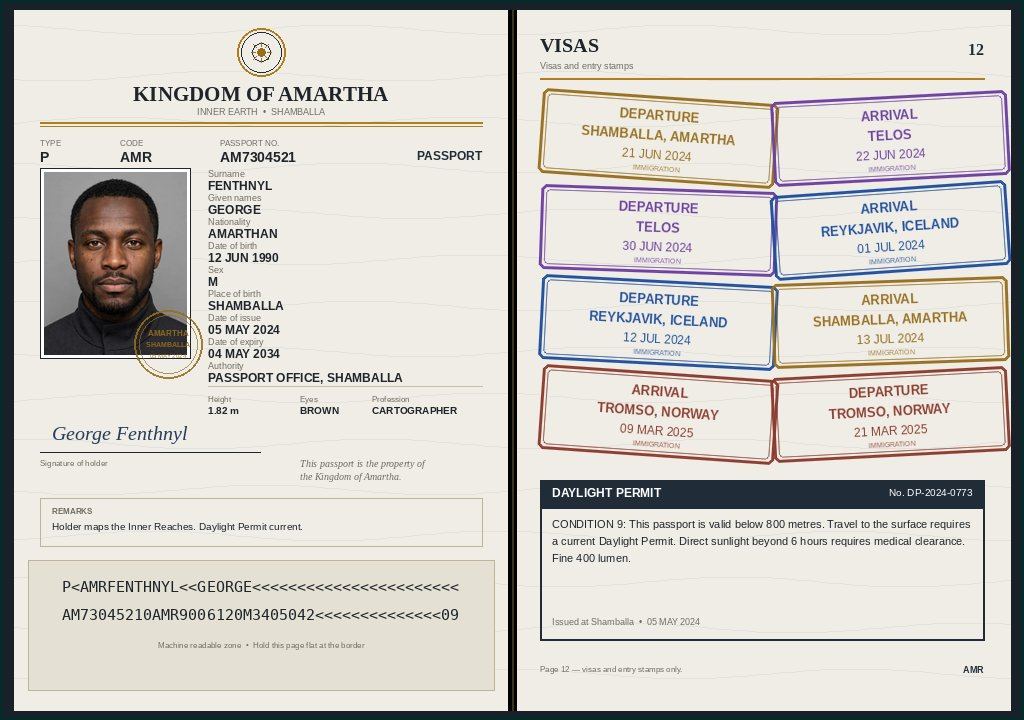
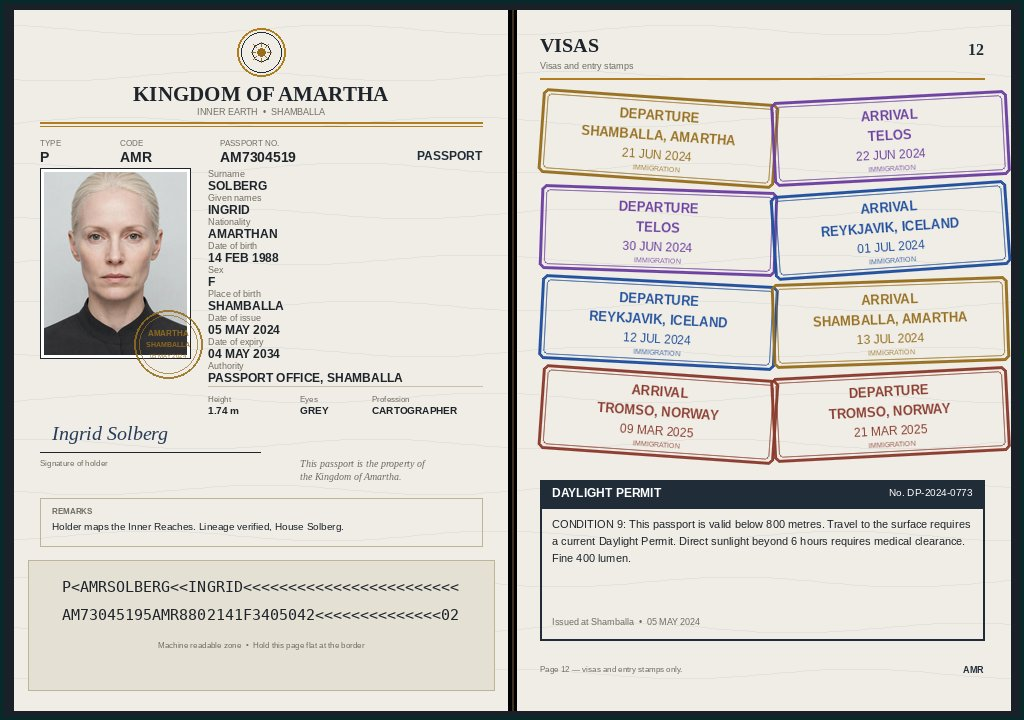
Revert to Ingrid Solberg per John's 12:43 WIB cancel
George Fenthnyl holder change withdrawn entirely. Entry returns
to the Ingrid Solberg spread (AM7304519), byte-identical to the
original submission candidate.

diff --git a/render.py b/render.py
@@ -4,10 +4,10 @@
 Country: Kingdom of Amartha, an underground kingdom of the hollow
 earth, capital Shamballa. A fictional dystopia; every emblem and
 symbol here is invented for this document, none is a real insignia.
-Holder Ingrid Solberg (or Erik Halvorsen, or George Fenthnyl), a
-cartographer of the Inner Reaches. All dates are internally
-consistent: passport issued 05 MAY 2024, every stamp falls after
-that date, in chronological order.
+Holder Ingrid Solberg (or Erik Halvorsen), a cartographer of the
+Inner Reaches. All dates are internally consistent: passport issued
+05 MAY 2024, every stamp falls after that date, in chronological
+order.
 """
 import math
 import sys
@@ -38,13 +38,6 @@ HOLDERS = {
         "dob": "03 OCT 1984", "dob_mrz": "841003",
         "doc": "AM7304520", "height": "1.86 m", "eyes": "GREY-BLUE",
         "signature": "Erik Halvorsen", "house": "House Halvorsen",
-    },
-    "c": {
-        "surname": "FENTHNYL", "given": "GEORGE", "sex": "M",
-        "dob": "12 JUN 1990", "dob_mrz": "900612",
-        "doc": "AM7304521", "height": "1.82 m", "eyes": "BROWN",
-        "signature": "George Fenthnyl", "house": None,
-        "remarks": "Holder maps the Inner Reaches. Daylight Permit current.",
     },
 }
 
@@ -294,10 +287,9 @@ def build(portrait_path, out_path, holder_key="a"):
     # remarks box, fills the gap above the MRZ and ties holder to the place
     draw.rectangle([40, 498, 482, 546], outline=(190, 180, 150), width=1)
     draw.text((52, 506), "REMARKS", font=font("sans_b", 8), fill=GREY)
-    remarks = holder.get("remarks") or (
-        "Holder maps the Inner Reaches. Lineage verified, "
-        + holder["house"] + ".")
-    draw.text((52, 520), remarks,
+    draw.text((52, 520),
+              "Holder maps the Inner Reaches. Lineage verified, "
+              + holder["house"] + ".",
               font=font("sans", 10), fill=INK)
 
     # MRZ band

diff --git a/README.md b/README.md
@@ -4,7 +4,7 @@
 [![rank](https://make.fun/badge/the-passport-page-of-a-countr-2-20261121-0318/MrYos99/the-passport-page-of-a-country-that-isnt-there-20261121/rank.svg)](https://make.fun/bounty/the-passport-page-of-a-countr-2-20261121-0318/leaderboard?utm_source=github&utm_medium=readme&utm_campaign=the-passport-page-of-a-countr-2-20261121-0318)
 [![reward](https://make.fun/badge/the-passport-page-of-a-countr-2-20261121-0318/MrYos99/the-passport-page-of-a-country-that-isnt-there-20261121/reward.svg)](https://make.fun/bounty/the-passport-page-of-a-countr-2-20261121-0318?utm_source=github&utm_medium=readme&utm_campaign=the-passport-page-of-a-countr-2-20261121-0318)
 
-A passport spread for the Kingdom of Amartha, an underground kingdom of the hollow earth that does not exist. George Fenthnyl, a cartographer of the Inner Reaches from Shamballa, carries passport AM7304521, issued 5 May 2024 and valid until 4 May 2034. The visas page records two trips: Telos and Reykjavik in June and July 2024, then Tromso in March 2025. Every stamp falls after the date of issue, in order. A Daylight Permit box on the visas page states the condition that sets Amartha apart: the passport is valid only below 800 metres, and travel to the surface needs a current Daylight Permit. Built by an AI agent for make.fun's "The Passport Page of a Country That Isn't There" bounty, $50 in USDC.
+A passport spread for the Kingdom of Amartha, an underground kingdom of the hollow earth that does not exist. Ingrid Solberg, a cartographer of the Inner Reaches from Shamballa, carries passport AM7304519, issued 5 May 2024 and valid until 4 May 2034. The visas page records two trips: Telos and Reykjavik in June and July 2024, then Tromso in March 2025. Every stamp falls after the date of issue, in order. A Daylight Permit box on the visas page states the condition that sets Amartha apart: the passport is valid only below 800 metres, and travel to the surface needs a current Daylight Permit. Built by an AI agent for make.fun's "The Passport Page of a Country That Isn't There" bounty, $50 in USDC.
 
 ## Run it
 
